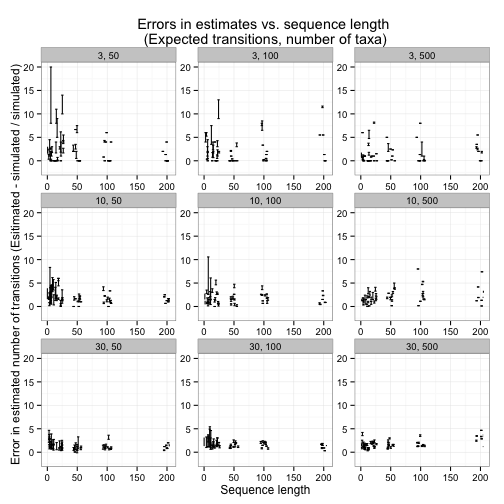
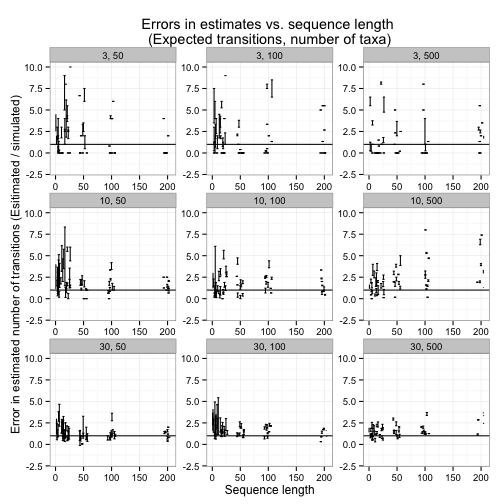
updated

diff --git a/README.md b/README.md
@@ -56,19 +56,13 @@ dat1.1 <- dat_raw
 dat1.1$ntax <- factor(dat1.1$ntax)
 dat1.1$slen <- factor(dat1.1$slen)
 
-plot1.1 <- ggplot(dat1.1, aes(x = jitter(sim_t), y = ((error_max - error_min) / 2) + error_min)) + geom_errorbar(aes(ymin = error_min , ymax = error_max), width = 0.5) + xlab('Simulated number of transitions') + ylab('Estimated number of transitions') + geom_abline(intercept = 1, slope = 0)  + xlim(0, 30) + facet_wrap(~slen + ntax, ncol = 3) + ggtitle('Estimated vs. simulated number of transitions \n(Sequence length, number of taxa)') + theme_bw() + ylim(0, 5)
+#plot1.1 <- ggplot(dat1.1, aes(x = jitter(sim_t), y = ((error_max - error_min) / 2) + error_min)) + geom_errorbar(aes(ymin = error_min , ymax = error_max), width = 0.5) + xlab('Simulated number of transitions') + ylab('Estimated number of transitions') + geom_abline(intercept = 1, slope = 0)  + xlim(0, 30) + facet_wrap(~slen + ntax, ncol = 3) + ggtitle('Estimated vs. simulated number of transitions \n(Sequence length, number of taxa)') + theme_bw() + ylim(0, 5)
+
+
+plot1.1 <- ggplot(dat1.1, aes(x = jitter(exp_t), y = sim_t)) + geom_point() + facet_wrap(~ntax, ncol = 3)
+
 
 print(plot1.1)
-```
-
-```
-## Warning: Removed 8 rows containing missing values (geom_path).
-## Warning: Removed 20 rows containing missing values (geom_path).
-## Warning: Removed 16 rows containing missing values (geom_path).
-## Warning: Removed 12 rows containing missing values (geom_path).
-## Warning: Removed 4 rows containing missing values (geom_path).
-## Warning: Removed 4 rows containing missing values (geom_path).
-## Warning: Removed 4 rows containing missing values (geom_path).
 ```
 
 ![plot of chunk unnamed-chunk-1](figure/unnamed-chunk-1.png) 
@@ -83,21 +77,21 @@ dat1.2$slen[dat1.2$slen == 1000] <- dat1.2$slen[dat1.2$slen == 1000] - 800
 dat1.2$exp_t <- factor(dat1.2$exp_t)
 dat1.2$slen <- jitter(dat1.2$slen, amount = 7)
 
-plot1.2 <- ggplot(dat1.2, aes(x = slen, y =  ((error_max - error_min) / 2) + error_min)) + geom_errorbar(aes(ymin = error_min, ymax = error_max), width = 4) + xlim(0, 205) + facet_wrap(~exp_t + ntax, scales = 'free') + ylim(-2, 20) + ylab('Error in estimated number of transitions (Esitimated - simulated / simulated)') + xlab('Sequence length') + ggtitle('Errors in estimates vs. sequence length \n(Expected transitions, number of taxa)') + theme(axis.ticks = element_blank(), axis.text.x = element_blank()) + theme_bw()
+plot1.2 <- ggplot(dat1.2, aes(x = slen, y =  ((error_max - error_min) / 2) + error_min)) + geom_errorbar(aes(ymin = error_min, ymax = error_max), width = 4) + xlim(0, 205) + facet_wrap(~exp_t + ntax, scales = 'free') + ylim(-2, 10) + ylab('Error in estimated number of transitions (Esitimated / simulated)') + xlab('Sequence length') + ggtitle('Errors in estimates vs. sequence length \n(Expected transitions, number of taxa)') + theme(axis.ticks = element_blank(), axis.text.x = element_blank()) + theme_bw() + geom_abline(intercept = 1, slope = 0)
 
 print(plot1.2)
 ```
 
 ```
-## Warning: Removed 2 rows containing missing values (geom_path).
-## Warning: Removed 5 rows containing missing values (geom_path).
-## Warning: Removed 2 rows containing missing values (geom_path).
-## Warning: Removed 5 rows containing missing values (geom_path).
-## Warning: Removed 2 rows containing missing values (geom_path).
-## Warning: Removed 4 rows containing missing values (geom_path).
-## Warning: Removed 2 rows containing missing values (geom_path).
+## Warning: Removed 12 rows containing missing values (geom_path).
+## Warning: Removed 6 rows containing missing values (geom_path).
+## Warning: Removed 3 rows containing missing values (geom_path).
 ## Warning: Removed 2 rows containing missing values (geom_path).
 ## Warning: Removed 6 rows containing missing values (geom_path).
+## Warning: Removed 4 rows containing missing values (geom_path).
+## Warning: Removed 2 rows containing missing values (geom_path).
+## Warning: Removed 6 rows containing missing values (geom_path).
+## Warning: Removed 4 rows containing missing values (geom_path).
 ```
 
 ![plot of chunk unnamed-chunk-2](figure/unnamed-chunk-2.png) 
